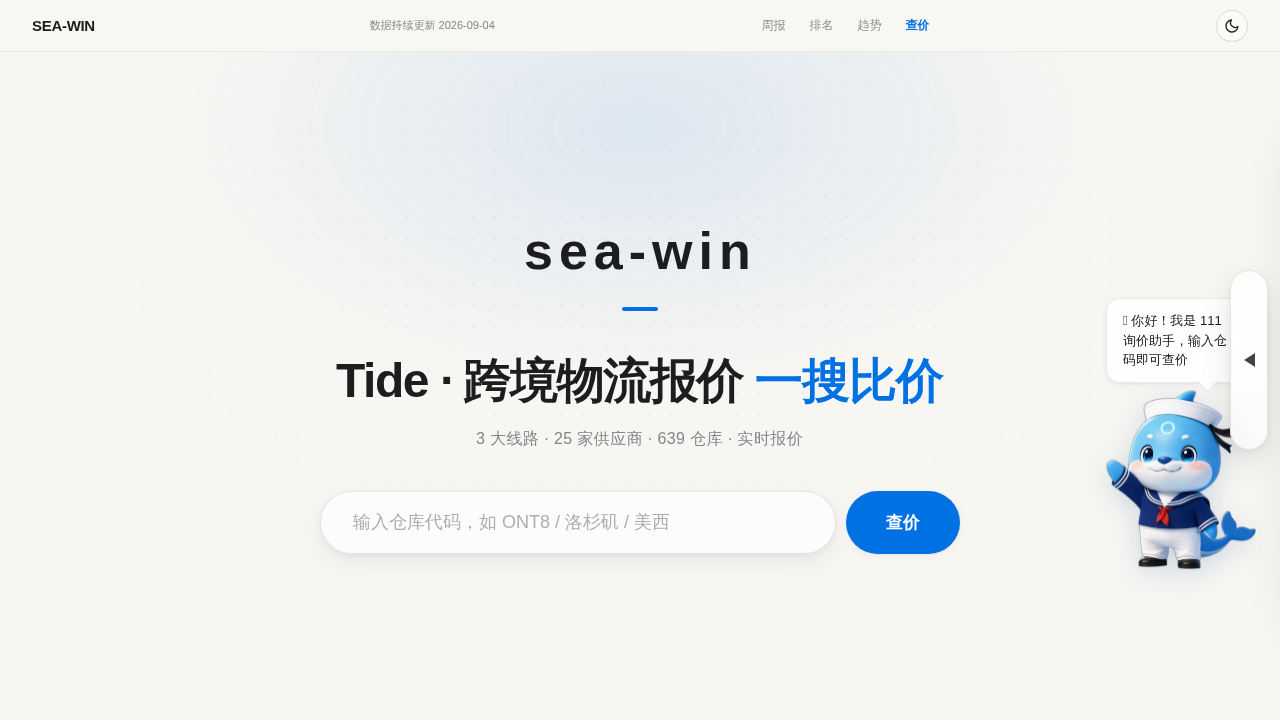
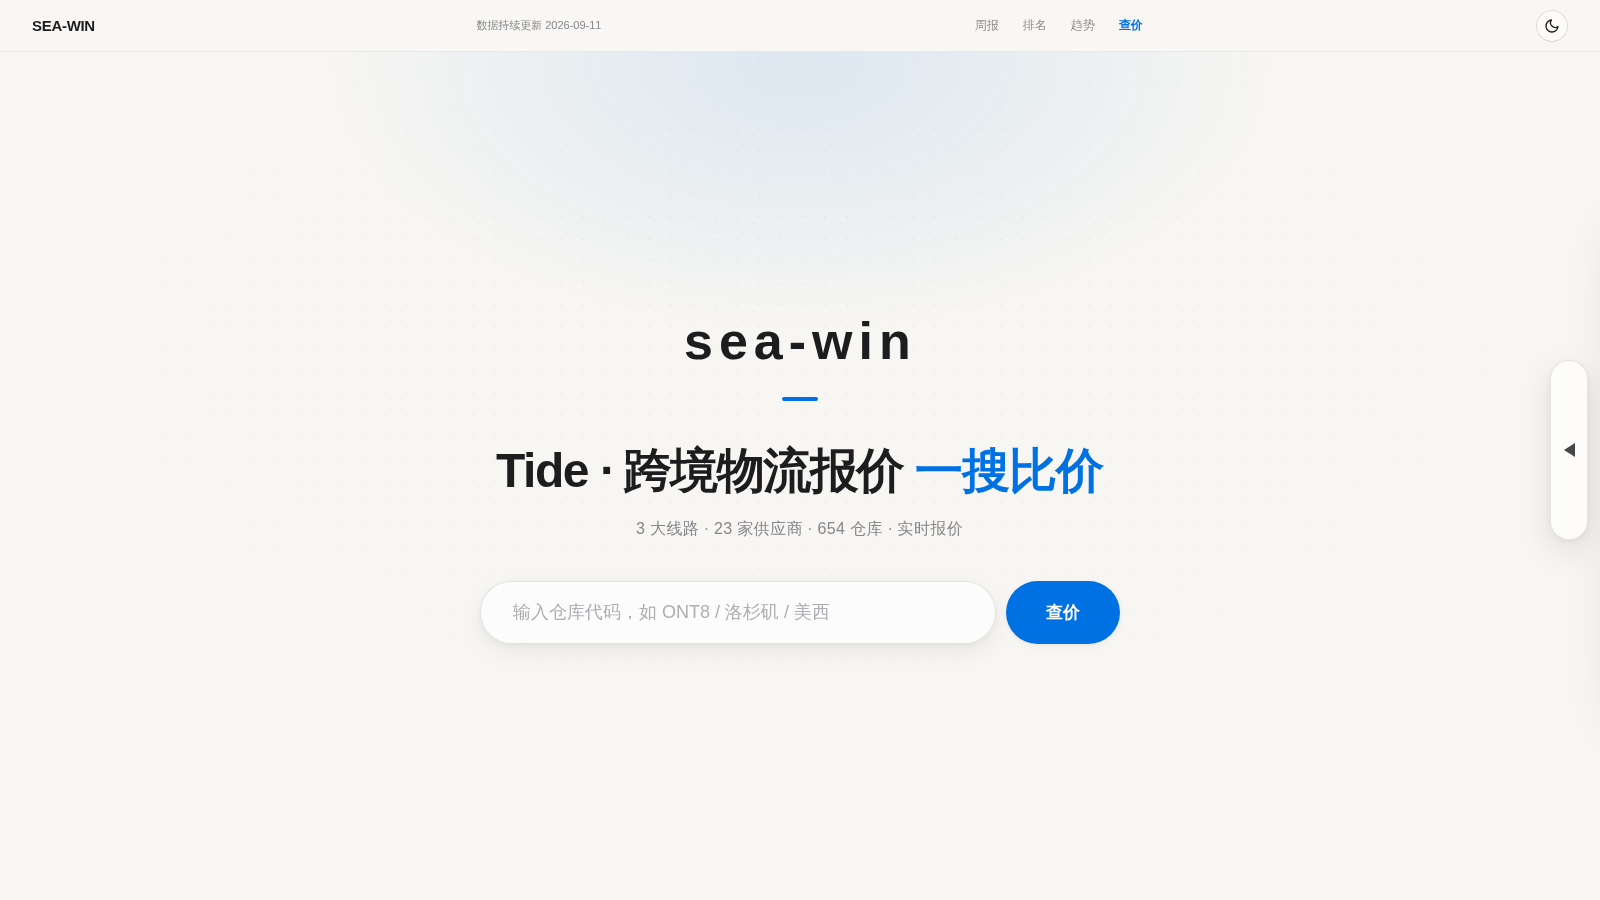
fix(showcase): panel-v1 翻页箭头外移+询价hero截图重拍

diff --git a/index.html b/index.html
@@ -643,7 +643,7 @@ body {
   transition: all .25s cubic-bezier(.16,1,.3,1);
   pointer-events: auto; user-select: none;
 }
-.pn-prev { left: max(24px, calc(50vw - 840px)); } .pn-next { right: max(24px, calc(50vw - 840px)); }
+.pn-prev { left: max(16px, calc(50vw - 880px)); } .pn-next { right: max(16px, calc(50vw - 880px)); }
 .pn-arrow:hover { background: var(--accent); border-color: var(--accent); transform: translateY(-50%) scale(1.08); }
 .pn-arrow:active { transform: translateY(-50%) scale(.95); }
 [data-theme="dark"] .pn-arrow { background: rgba(44,44,46,.98); border-color: rgba(255,255,255,.35); }
